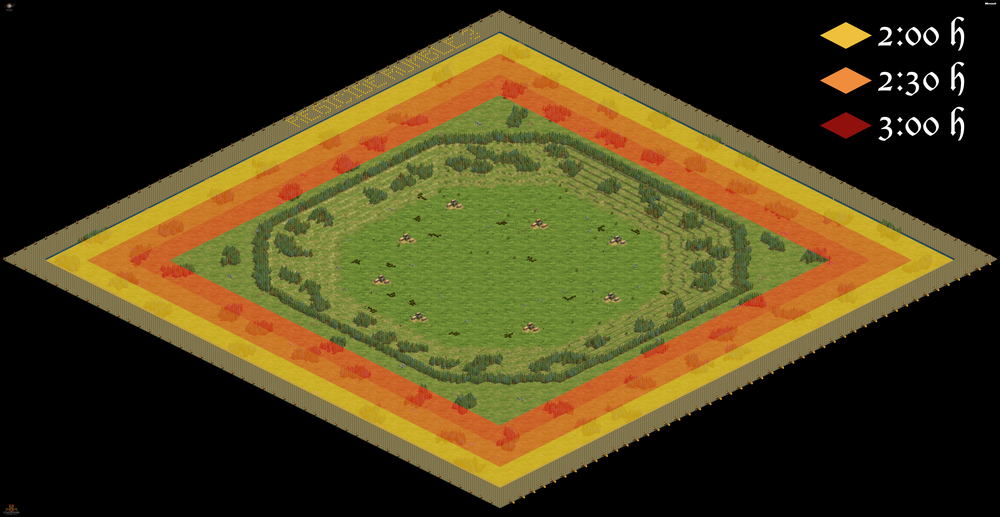
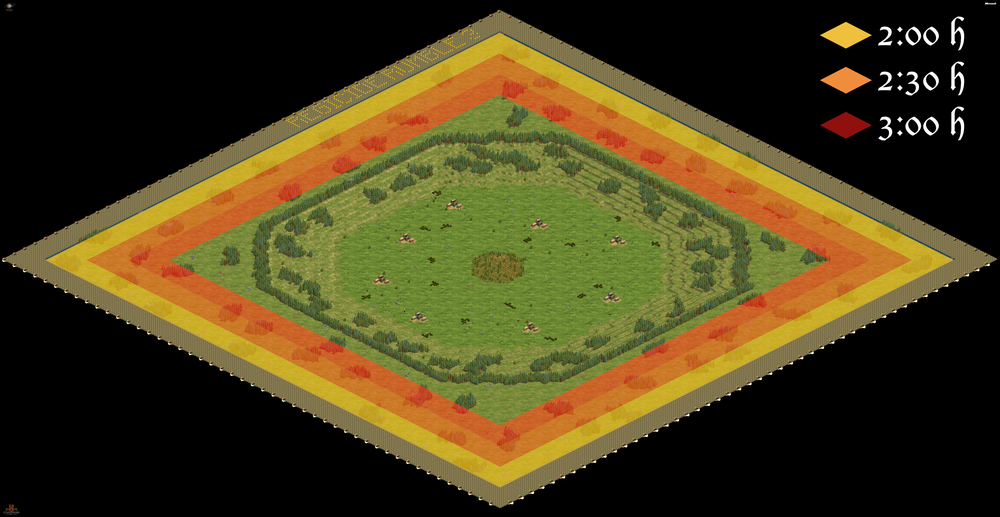
Add changed map versions

diff --git a/rr3/index.html b/rr3/index.html
@@ -61,13 +61,15 @@ Day 3:
 <a href="#nomad">Nomad</a> ·
 <a href="#steppe">Steppe</a> ·
 <a href="#pilgrims">Pilgrims</a> ·
-
 </div>
 <hr>
 
 <div class="map" id="grand-bara">
 <a href="#grand-bara"><h2>Grand Bara – Day 1 – Game 1</h2></a>
 <img src="maps/ZR@RR3_Grand_Bara.png"/>
+<div class="explanation">
+The <b>bamboo</b> trees in the center have <b>200 wood</b> each.
+</div>
 </div>
 
 <hr>
@@ -101,6 +103,9 @@ Arena with a randomly chosen wall type:
 <div class="map" id="chaos-pit">
 <a href="#chaos-pit"><h2>Chaos Pit – Day 1 – Game 4</h2></a>
 <img src="maps/ZR@RR3_Chaos_Pit.png"/>
+<div class="explanation">
+The <b>bamboo</b> trees in the center have <b>200 wood</b> each.
+</div>
 </div>
 
 <hr>
@@ -142,6 +147,9 @@ The <b>bamboo</b> trees in the center have <b>200 wood</b> each.
 <div class="map" id="steppe">
 <a href="#steppe"><h2>Steppe – Day 3 – Game 2</h2></a>
 <img src="maps/ZR@RR3_Steppe.png"/>
+<div class="explanation">
+The <b>bamboo</b> trees in the center have <b>200 wood</b> each.
+</div>
 </div>
 
 <hr>
